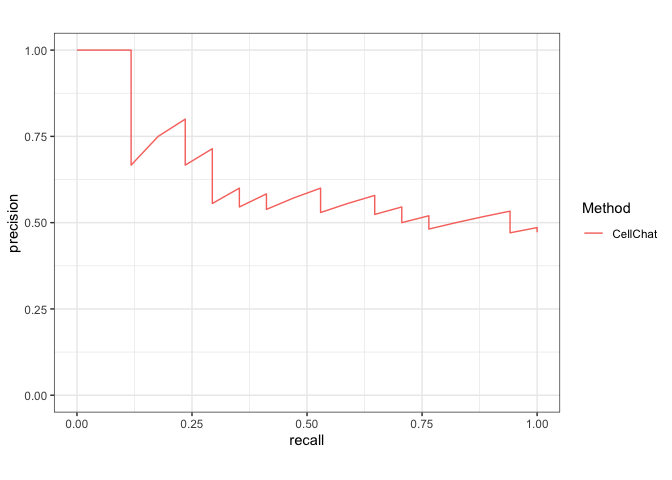
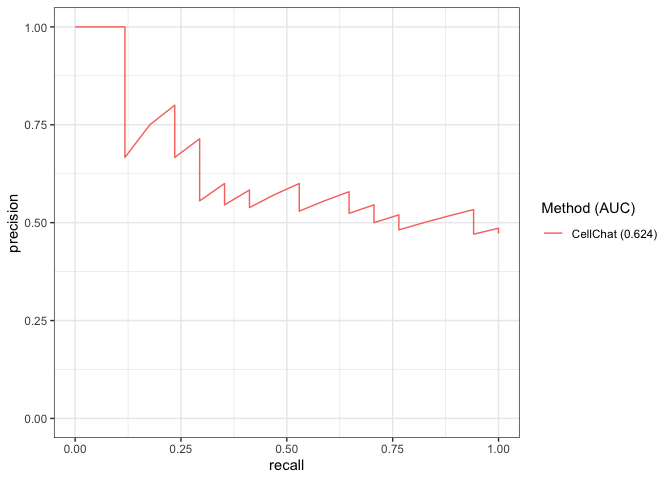
README

diff --git a/README.md b/README.md
@@ -4,7 +4,7 @@
 
 <!-- badges: start -->
 <!-- badges: end -->
-CITEdb(<https://citedb.cn/#/>), a cell-cell interaction database at cellular level that has been manually curated from literatures, provides an initial benchmark dataset when interpreting and evaluating the computational results of cell-cell interactions derived from different tools. benchmark is provided for automatic benchmark analysis using CITEdb.
+CITEdb(<https://citedb.cn/#/>), a cell-cell interaction database at cellular level that has been manually curated from literatures, provides an initial benchmark dataset when interpreting and evaluating the computational results of cell-cell interactions derived from different tools. benchmark is developed to enjoy great flexibility by allowing automatic benchmark analysis of directed and undirected cell-cell interactions using CITEdb.
 
 <font size=4>How to cite:</font>
 
@@ -25,11 +25,11 @@ devtools::install_github("shanny01/benchmark")
 
 You can follow the tutorial below to get started using benchmark for the benchmark analysis of the prediction algorithms.
 
-The input of the package is text files with predicted cell-cell interactions and the outputs are precision-recall curves and tables of precision-recall values. Required data and formats can be prepared as follows:
+The input of the package is text files with predicted cell-cell interactions and the outputs are precision-recall curves and precision-recall values. Required data and formats can be prepared as follows:
 
 1: return a list of predicted ligand-receptor interactions with its own format and significance assessment by the prediction algorithms;
 
-2: summarize the results using the sum of ligand-receptor scores, the number of significant ligand-receptor pairs, or other modes as the weight of cell-cell interactions;
+2: summarize the results using the sum of ligand-receptor scores, the number of significant ligand-receptor pairs, or directly using Bray-Curtis score and the enrichment score as the overall weight of cell-cell interactions;
 
 3: unify the coding of cell types in Step 2 to cell type class in CITEdb;
 
@@ -63,38 +63,45 @@ library(yardstick)
 #> Use the argument `event_level = "second"` to alter this as needed.
 library(benchmark)
 
-## load example data
+data("CITEdb")
+
+## load example data with directed cell-cell interactions
+## Cell–cell interactions in human metastatic melanoma predicted by CellChat, CellPhoneDB, Connectome, iTALK, NATMI,  and SingleCellSignalR using the default LR resources based on the sum of ligand-receptor scores.
 data('Default.sum')
 
 ## benchmark one algorithm
-benchmark(asses=Default.sum[[1]])
-#> [[1]]
+benchmark(assess = Default.sum[[1]],directed = T)
+#> Coordinate system already present. Adding new coordinate system, which will replace the existing one.
+#> Scale for 'colour' is already present. Adding another scale for 'colour',
+#> which will replace the existing scale.
 ```
 
 <img src="man/figures/README-example-1.png" width="100%" />
 
-    #> 
-    #> [[2]]
-    #> # A tibble: 1 × 4
-    #>   Method   .metric .estimator .estimate
-    #>   <chr>    <chr>   <chr>          <dbl>
-    #> 1 CellChat pr_auc  binary         0.624
+``` r
 
-    ##benchmark multiple algorithms at once
-    input = do.call(rbind,Default.sum)
-    benchmark(asses=input)
-    #> [[1]]
+##benchmark multiple algorithms at once
+input = do.call(rbind,Default.sum)
+benchmark(assess = input,directed = T)
+#> Coordinate system already present. Adding new coordinate system, which will replace the existing one.
+#> Scale for 'colour' is already present. Adding another scale for 'colour',
+#> which will replace the existing scale.
+```
 
 <img src="man/figures/README-example-2.png" width="100%" />
 
-    #> 
-    #> [[2]]
-    #> # A tibble: 6 × 4
-    #>   Method            .metric .estimator .estimate
-    #>   <chr>             <chr>   <chr>          <dbl>
-    #> 1 CellChat          pr_auc  binary         0.624
-    #> 2 CellPhoneDB       pr_auc  binary         0.751
-    #> 3 Connectome        pr_auc  binary         0.749
-    #> 4 iTALK             pr_auc  binary         0.642
-    #> 5 NATMI             pr_auc  binary         0.801
-    #> 6 SingleCellSignalR pr_auc  binary         0.845
+``` r
+
+## load example data with undirected cell-cell interactions
+## Cell–cell interactions in human metastatic melanoma based on Bray-Curtis score and the enrichment score using the concensus LR resource in LIANA.
+data('Bray.Curtis.score_Enrichment.score')
+
+## benchmark multiple algorithms at once
+input = do.call(rbind,Bray.Curtis.score_Enrichment.score)
+benchmark(assess = input,directed = F)
+#> Coordinate system already present. Adding new coordinate system, which will replace the existing one.
+#> Scale for 'colour' is already present. Adding another scale for 'colour',
+#> which will replace the existing scale.
+```
+
+<img src="man/figures/README-example-3.png" width="100%" />
